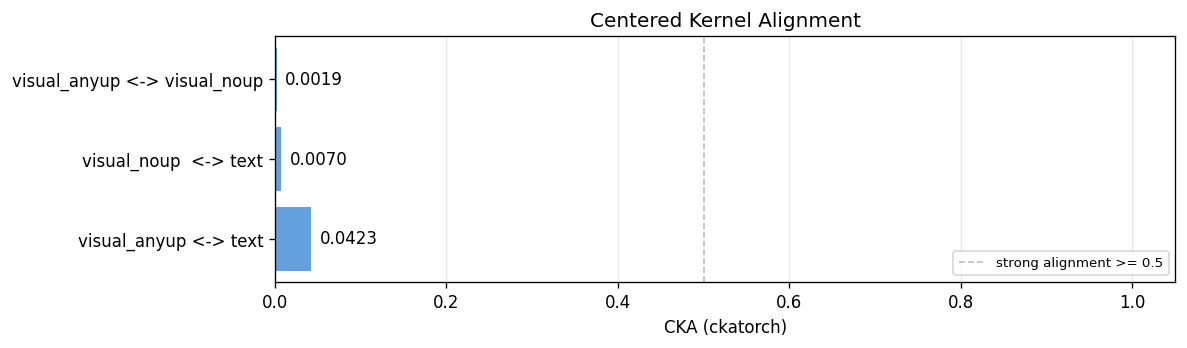
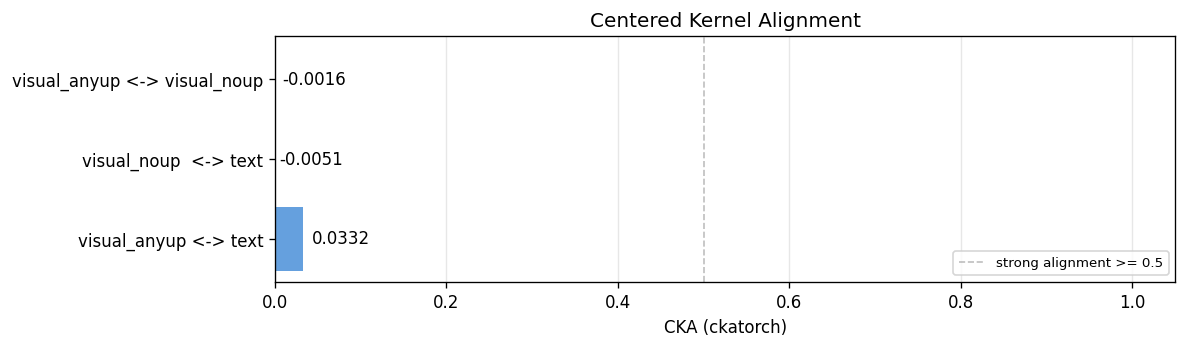
Analise do COYO

Changed region(s): [[0.2182, 0.3736, 0.3117, 0.546], [0.2494, 0.6034, 0.3117, 0.7759], [0.2182, 0.2011, 0.3117, 0.2586]]

diff --git a/embeddings/analyze_cka_cross.py b/embeddings/analyze_cka_cross.py
@@ -394,9 +394,9 @@ def run_cka_analysis(
 
 if __name__ == "__main__":
     parser = argparse.ArgumentParser(description="CKA via ckatorch entre visual e text embeddings")
-    parser.add_argument("--n_samples", type=int, default=5000)
-    parser.add_argument("--split", choices=["train", "val", "test", "all"], default="test")
-    parser.add_argument("--kernel", choices=["linear", "rbf"], default="linear",
+    parser.add_argument("--n_samples", type=int, default=50000)
+    parser.add_argument("--split", choices=["train", "val", "test", "all"], default="all")
+    parser.add_argument("--kernel", choices=["linear", "rbf"], default="rbf",
                         help="Tipo de kernel para Gram matrices (default: linear)")
     parser.add_argument("--device", default="cuda" if torch.cuda.is_available() else "cpu")
     parser.add_argument("--folder_anyup", type=str, default=None)

diff --git a/embeddings/analyze_rsa_global.py b/embeddings/analyze_rsa_global.py
@@ -362,7 +362,7 @@ if __name__ == "__main__":
     )
     parser.add_argument("--n_samples", type=int, default=5000,
                         help="Samples per set for the RDM (default: 5000)")
-    parser.add_argument("--split", choices=["train", "val", "test", "all"], default="test")
+    parser.add_argument("--split", choices=["train", "val", "test", "all"], default="all")
     parser.add_argument("--folder_anyup", type=str, default=None,
                         help="Override directory of AnyUp set")
     parser.add_argument("--folder_noup", type=str, default=None,
